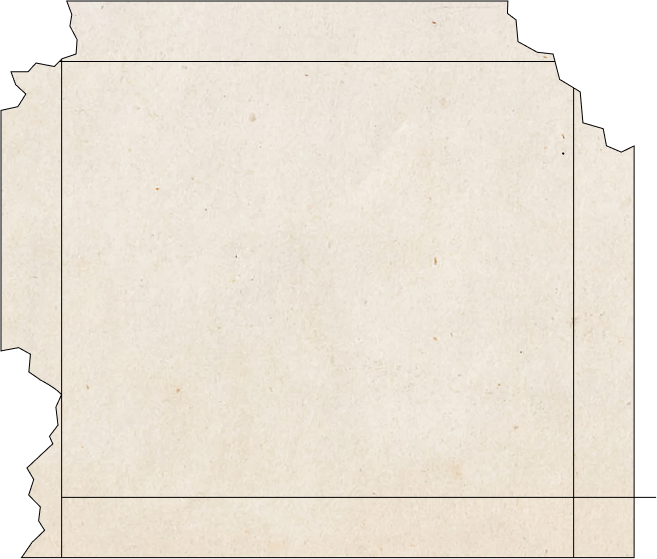
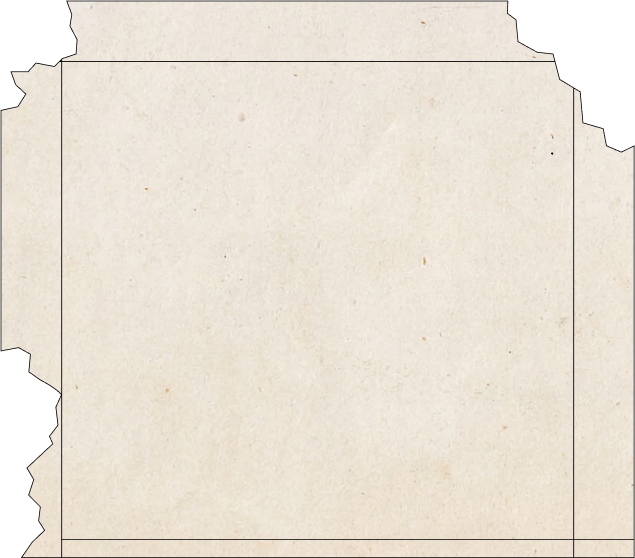
updated paper

diff --git a/index.html b/index.html
@@ -20,11 +20,11 @@
       
       <img id="img2" class="w-[110vw]  h-full object-cover scene1" src="asset/scene1_2.png" alt="" >
       <div id="paper" class="paper w-full h-full absolute overflow-hidden flex items-center justify-center">
-        <div class="flex h-[550px] w-[550px] relative p-16 pt-28">
+        <div class="flex h-[550px] w-[620px] relative p-16 pt-28">
           <div id="form" class="flex-col justify-start flex  z-10 -mt-30 w-full px-4 ">
             <div class="text-center text-black text-xl md:text-2xl font-extrabold font-['Jura'] uppercase leading-10">MEN AND WOMEN WANTED</div>
-            <div class="mt-3 text-left text-black text-sm md:text-base font-bold font-['Jura'] leading-relaxed">for hazardous journey, bitter cold, long months of complete darkness, constant danger, safe return doubtful, honor and <br/>recognition in case of success.</div>
-            <div class="text-right mt-3 text-black text-base font-bold font-['Jura'] leading-normal">Pier 50, San Francisco, CA </div>
+            <div class="mt-3 text-left text-black text-sm md:text-base font-bold font-['Jura'] leading-relaxed">for hazardous journey, bitter cold, long months of complete darkness, constant danger, safe return doubtful, honor and recognition in case of success.</div>
+            <div class="text-right mt-3 text-black text-base font-bold font-['Jura'] leading-normal ">Pier 50, San Francisco, CA </div>
             <form class="flex  items-center flex-col gap-5 mt-10 hidden" id="input">
               <input name="handle" id="handle" placeholder="LinkedIn/ X handle/ Portfolio" class="inp font-semibold text-black w-72 md:w-96 bg-transparent ring-0 text-black outline-none border-b-2 text-xl md:placeholder:text-xl" type="text" name="" id="">
               <input name="phone" pattern="/^[+]*[(]{0,1}[0-9]{1,3}[)]{0,1}[-\s\./0-9]*$/g" id="phone" placeholder="Phone number" class="inp font-semibold text-black w-72 md:w-96 bg-transparent ring-0 text-black outline-none border-b-2 text-xl md:placeholder:text-xl" type="text" name="" id="">
@@ -39,7 +39,7 @@
             <div class="overflow-hidden">Pier 50, San Francisco, CA </div>
           </div>
         
-          <img class="absolute w-[550px] h-[550px] left-0 top-0 z-5" src="asset/paper.png" alt="">
+          <img class="absolute w-[620px] h-[550px] left-0 top-0 z-5" src="asset/paper.png" alt="">
 
         </div>   
         
